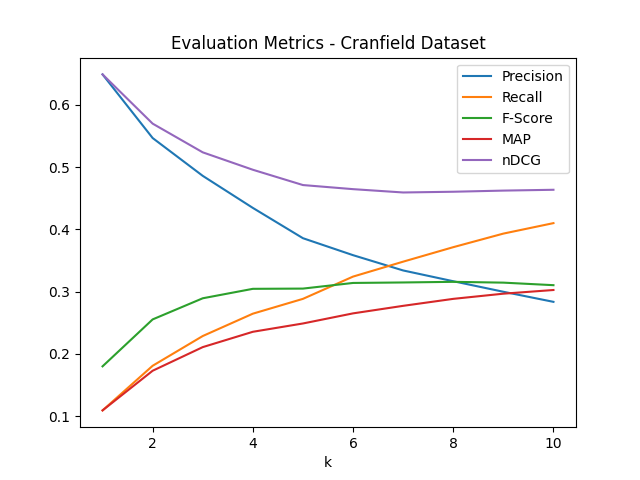
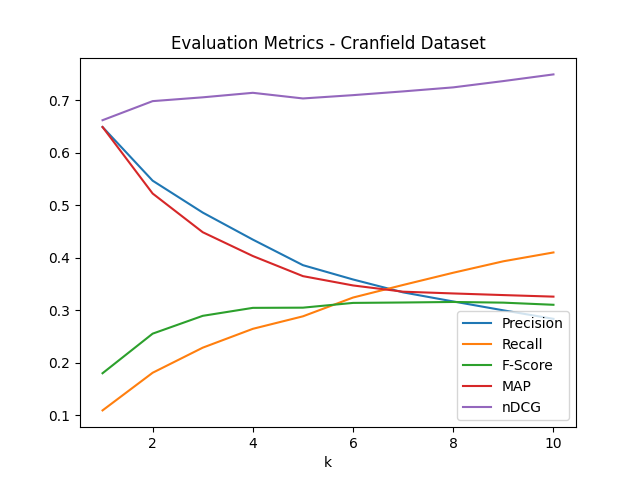
Fixed nDCG and MAP

diff --git a/evaluation.py b/evaluation.py
@@ -1,12 +1,5 @@
 from util import *
 import math
-from sklearn.metrics import ndcg_score
-import numpy as np
-
-# Add your import statements here
-
-
-
 
 class Evaluation():
 
@@ -253,122 +246,79 @@ class Evaluation():
 
 		return meanFscore
 
-	def queryNDCG(self, query_doc_IDs_ordered, query_id, true_doc_IDs, k):
-		# Early return if less than 2 documents
-		if len(query_doc_IDs_ordered[:k]) < 2:
-			return 0.0
+	def queryNDCG(self, query_doc_IDs_ordered, query_id, qrels, k):
+		# Get graded relevance for this query
+		relevance_dict = {}
+		for rel in qrels:
+			if int(rel["query_num"]) == query_id:
+				doc_id = int(rel["id"])
+				position = int(rel["position"])
+				relevance_dict[doc_id] = position
 
-		true_relevance = {doc_id: 1 for doc_id in true_doc_IDs}
+		# Compute DCG
+		DCG = 0.0
+		for i, doc_id in enumerate(query_doc_IDs_ordered[:k]):
+			rel = relevance_dict.get(doc_id, 0.0)
+			# DCG += rel / math.log2(i + 2)
+			DCG += (2**rel - 1) / math.log2(i + 2)
 
-		relevance_scores = []
-		predicted_scores = []
+		# Compute IDCG (ideal ranking)
+		ideal_rels = sorted(relevance_dict.values(), reverse=True)[:k]
+		IDCG = sum(rel / math.log2(i + 2) for i, rel in enumerate(ideal_rels))
 
-		for rank, doc_id in enumerate(query_doc_IDs_ordered[:k]):
-			relevance_scores.append(true_relevance.get(doc_id, 0))
-			predicted_scores.append(1.0 / (rank + 1))
-
-		y_true = np.asarray([relevance_scores])
-		y_score = np.asarray([predicted_scores])
-
-		return ndcg_score(y_true, y_score, k=k)
-
+		return DCG / IDCG if IDCG > 0 else 0.0
+			
+	
 	def meanNDCG(self, doc_IDs_ordered, query_ids, qrels, k):
-	    """
-	    Compute mean nDCG using sklearn.metrics.ndcg_score
-	    """
-	    total_nDCG = 0.0
-	    num_queries = len(query_ids)
-	
-	    for i in range(num_queries):
-	        query_id = query_ids[i]
-	        predicted_docs = doc_IDs_ordered[i]
-	        true_doc_IDs = [int(rel['id']) for rel in qrels if int(rel['query_num']) == query_id] # Get relevant document IDs for this query
-	
-	        nDCG = self.queryNDCG(predicted_docs, query_id, true_doc_IDs, k)
-	        total_nDCG += nDCG
-	
-	    return total_nDCG / num_queries if num_queries > 0 else 0.0
-
-	def queryAveragePrecision(self, query_doc_IDs_ordered, query_id, true_doc_IDs, k):
-		"""
-		Computation of average precision of the Information Retrieval System
-		at a given value of k for a single query (the average of precision@i
-		values for i such that the ith document is truly relevant)
-
-		Parameters
-		----------
-		arg1 : list
-			A list of integers denoting the IDs of documents in
-			their predicted order of relevance to a query
-		arg2 : int
-			The ID of the query in question
-		arg3 : list
-			The list of documents relevant to the query (ground truth)
-		arg4 : int
-			The k value
-
-		Returns
-		-------
-		float
-			The average precision value as a number between 0 and 1
-		"""
-
-		avgPrecision = -1
-
-		#Fill in code here
-		relevant_found = 0
-		precision_sum = 0.0
-		for i in range(min(k, len(query_doc_IDs_ordered))):
-			doc_id = query_doc_IDs_ordered[i]
-			if doc_id in true_doc_IDs:
-				relevant_found += 1
-				precision = relevant_found / (i + 1)
-				precision_sum += precision
-		avgPrecision = precision_sum / len(true_doc_IDs) if len(true_doc_IDs) > 0 else 0.0
-
-		return avgPrecision
-
-
-	def meanAveragePrecision(self, doc_IDs_ordered, query_ids, q_rels, k):
-		"""
-		Computation of MAP of the Information Retrieval System
-		at given value of k, averaged over all the queries
-
-		Parameters
-		----------
-		arg1 : list
-			A list of lists of integers where the ith sub-list is a list of IDs
-			of documents in their predicted order of relevance to the ith query
-		arg2 : list
-			A list of IDs of the queries
-		arg3 : list
-			A list of dictionaries containing document-relevance
-			judgements - Refer cran_qrels.json for the structure of each
-			dictionary
-		arg4 : int
-			The k value
-
-		Returns
-		-------
-		float
-			The MAP value as a number between 0 and 1
-		"""
-
-		meanAveragePrecision = -1
-
-		#Fill in code here
-		total_ap = 0.0
+		total_nDCG = 0.0
 		num_queries = len(query_ids)
+
 		for i in range(num_queries):
 			query_id = query_ids[i]
 			predicted_docs = doc_IDs_ordered[i]
-			# Get relevant documents for this query
-			true_doc_IDs = [int(rel['id']) for rel in q_rels if int(rel['query_num']) == query_id]
-			# Compute average precision for this query
-			ap = self.queryAveragePrecision(predicted_docs, query_id, true_doc_IDs, k)
-			total_ap += ap
-		meanAveragePrecision = total_ap / num_queries if num_queries > 0 else 0.0
+			nDCG = self.queryNDCG(predicted_docs, query_id, qrels, k)
+			total_nDCG += nDCG
+
+		return total_nDCG / num_queries if num_queries > 0 else 0.0
+
+	def queryAveragePrecision(self, query_doc_IDs_ordered, query_id, qrels, k):
+		"""
+		Compute Average Precision@k for a single query using binary relevance from position field.
+		"""
+		RELEVANCE_THRESHOLD = 1
+
+		# Build set of relevant doc IDs for this query
+		relevant_docs = set()
+		for rel in qrels:
+			if int(rel["query_num"]) == query_id and int(rel["position"]) >= RELEVANCE_THRESHOLD:
+				relevant_docs.add(int(rel["id"]))
+
+		num_relevant_found = 0
+		sum_precisions = 0.0
+
+		for i, doc_id in enumerate(query_doc_IDs_ordered[:k]):
+			if doc_id in relevant_docs:
+				num_relevant_found += 1
+				precision_at_i = num_relevant_found / (i + 1)
+				sum_precisions += precision_at_i
+
+		if len(relevant_docs) == 0:
+			return 0.0
+
+		return sum_precisions / min(len(relevant_docs), k)
 
 
-		return meanAveragePrecision
+	def meanAveragePrecision(self, doc_IDs_ordered, query_ids, qrels, k):
+		"""
+		Compute MAP@k averaged across all queries.
+		"""
+		total_AP = 0.0
+		num_queries = len(query_ids)
 
+		for i in range(num_queries):
+			query_id = query_ids[i]
+			predicted_docs = doc_IDs_ordered[i]
+			ap = self.queryAveragePrecision(predicted_docs, query_id, qrels, k)
+			total_AP += ap
+
+		return total_AP / num_queries if num_queries > 0 else 0.0
